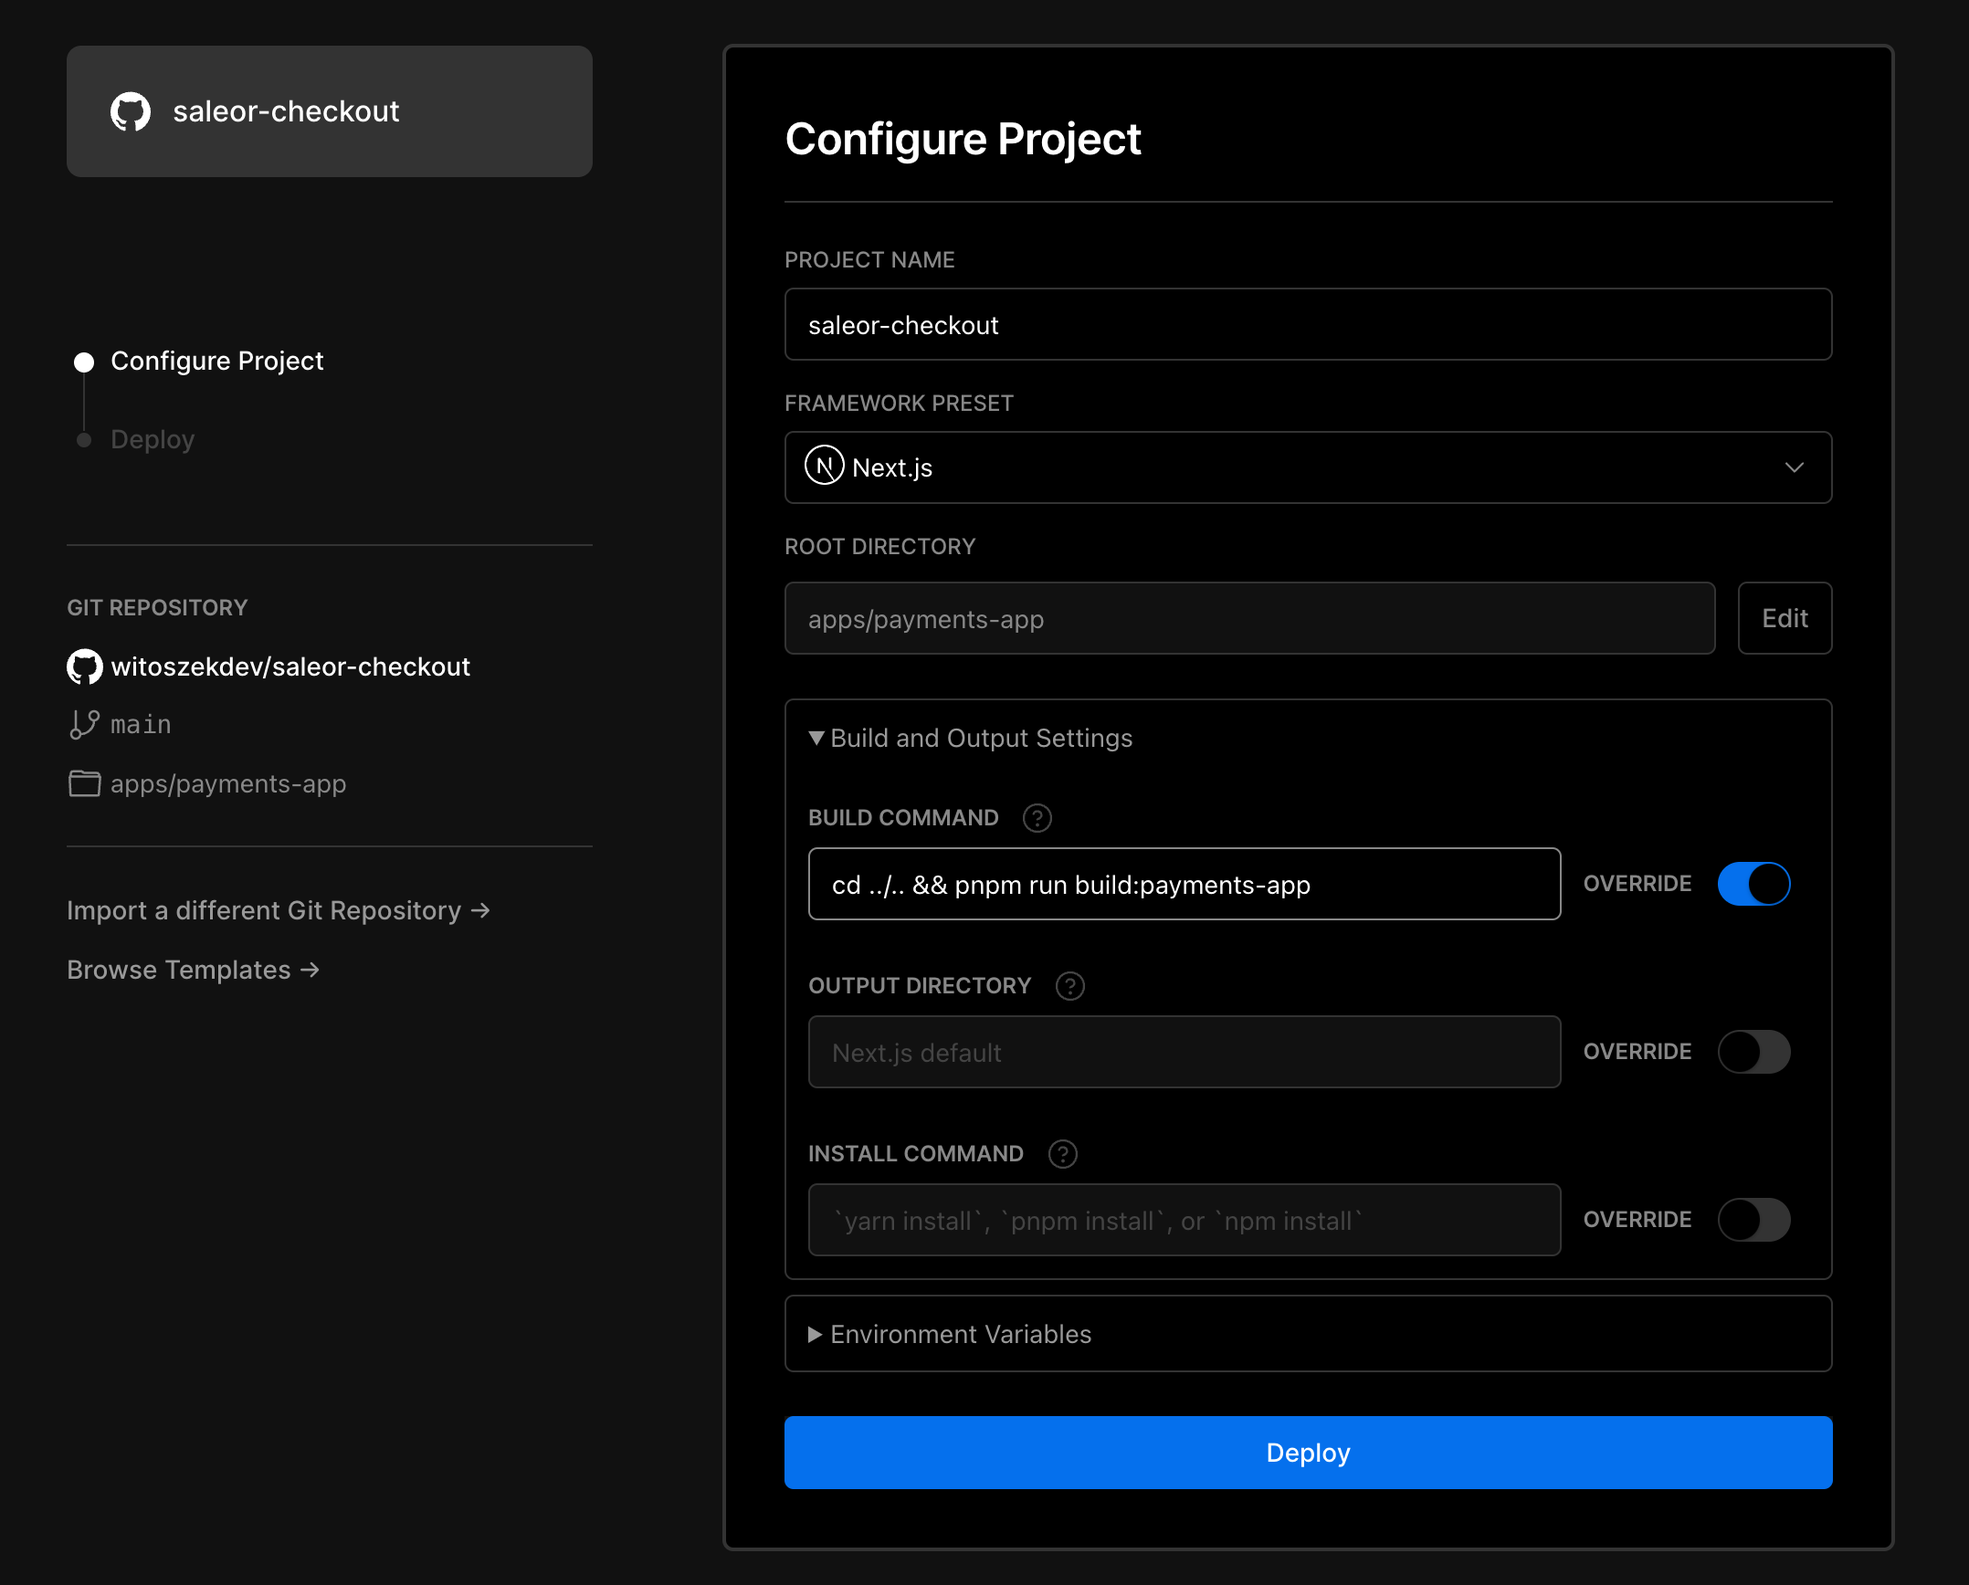
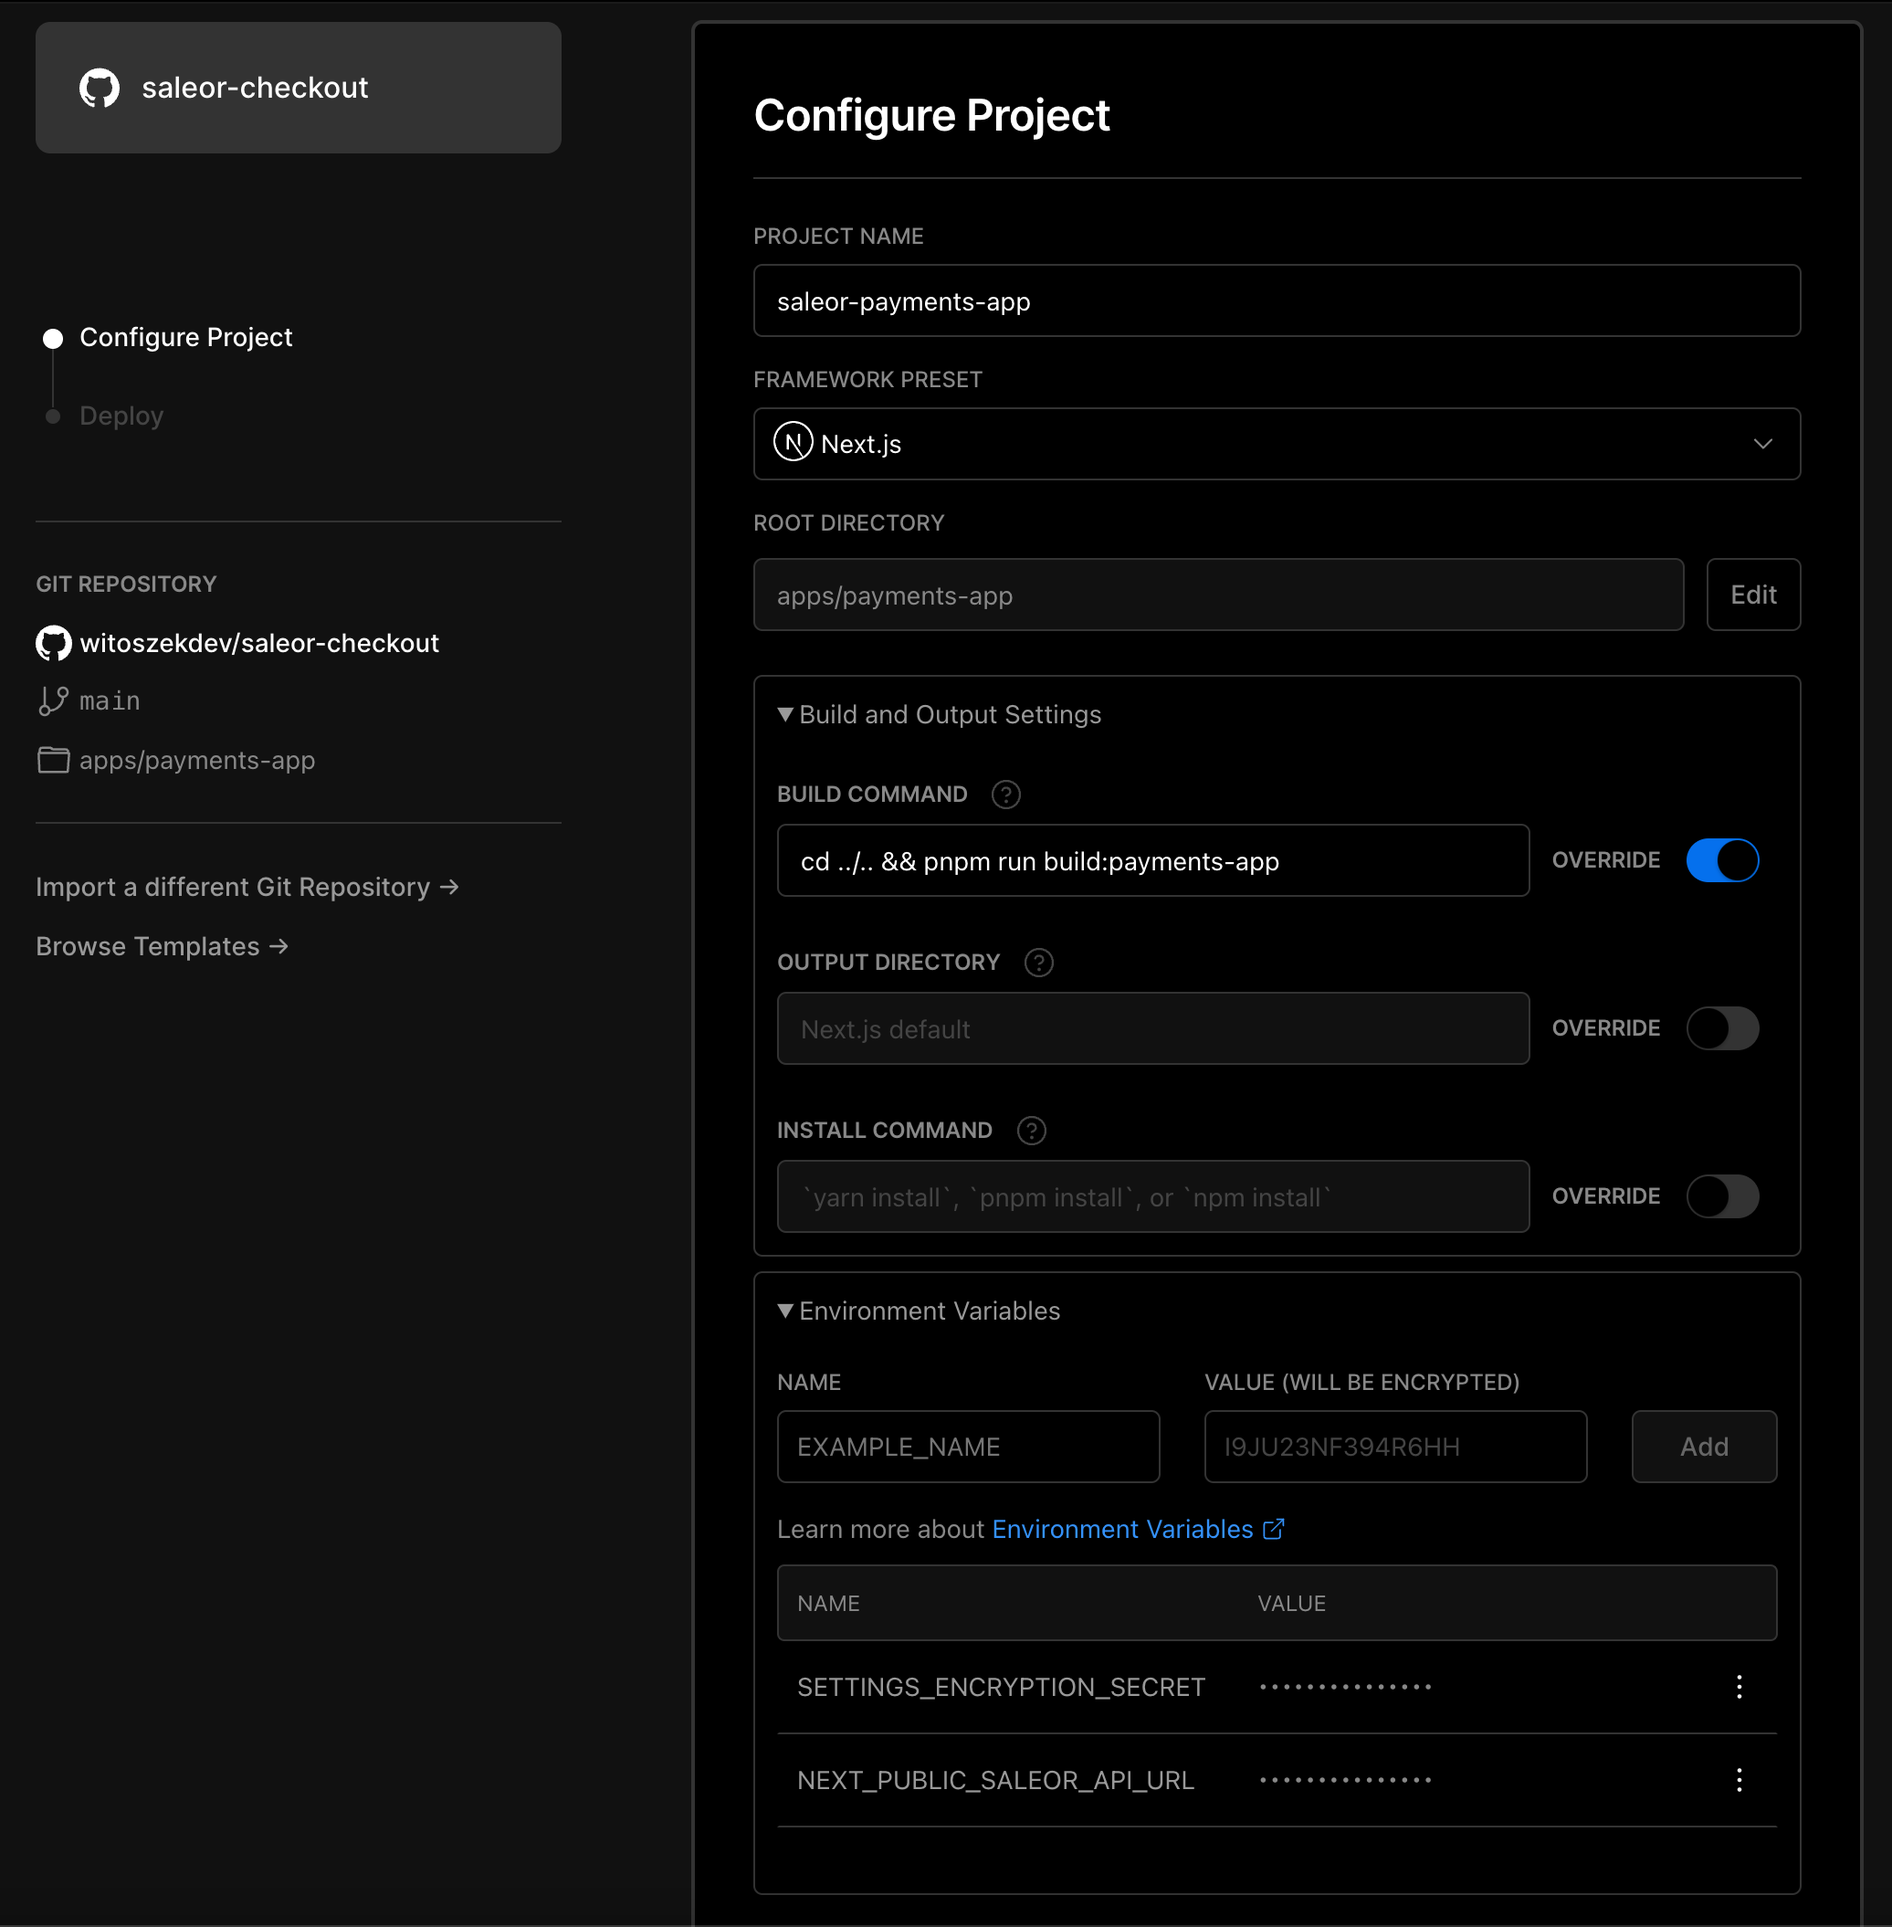
Change order of adding env variables, add additional screenshot of env variable conig

diff --git a/README.md b/README.md
@@ -92,11 +92,15 @@ pnpm dlx turbo link
   - Provide your project name (for example `saleor-payments-app`)
   - Select framework to Next.js
   - Choose the root directory to be `apps/payments-app`
-  - Change the build command to:
+  - Override the build command to:
 
 ```bash
 cd ../.. && pnpm run build:payments-app
 ```
+
+  - Add environment variables:
+    - `NEXT_PUBLIC_SALEOR_API_URL` - URL of your Saleor GraphQL API endpoint
+    - `SETTINGS_ENCRYPTION_SECRET` - Random string used for encrypting apps configuration (you can generate it using `openssl rand -hex 256`)
 
 Here's the final result on configuration page:
 
@@ -134,13 +138,13 @@ saleor app install
 
 After the app was installed generate it's `authToken`
 
-- Saleor CLI
+- [Saleor CLI](https://github.com/saleor/saleor-cli)
 
 ```
 saleor app token
 ```
 
-- Saleor GraphQL API
+- [Saleor GraphQL API](https://docs.saleor.io/docs/3.x/developer/api-reference/mutations/app-token-create)
 
 ```graphql
 mutation {
@@ -150,12 +154,50 @@ mutation {
 }
 ```
 
-Where `<MY_APP_ID>` is the app id. You can retrieve the id by using GraphQL query or by copying the URL inside dashboard
+Where `<MY_APP_ID>` is the app id. You can retrieve the id by using this GraphQL query:
+
+```graphql
+query {
+  apps(first: 10) {
+    edges {
+      node {
+        id
+        name
+      }
+    }
+  }
+}
+```
+
+outputs this:
+```jsonc
+{
+  "data": {
+    "apps": {
+      "edges": [
+        {
+          "node": {
+            "id": "QXBwOjQ=", // <- this is the app id
+            "name": "Checkout"
+          }
+        }
+      ]
+    }
+  },
+}
+```
 
 7. Update environment variables in Vercel
 
-You have to update the environment variables for Payments App in Vercel:
+You have to add additional environment variables for Payments App in Vercel:
 - `SALEOR_APP_ID` - ID of the app
-- `SALEOR_APP_TOKEN` - Token you've generated
+- `SALEOR_APP_TOKEN` - Token you've just generated
+
+Make sure that you also have "Automatically expose System Environment Variables" selected
+
+Here's how the configuration should look like in the end:
+![Vercel env variable final configuration](./docs/setup-vercel-3.png)
 
 After you're done re-deploy the app
+
+8. 🥳 Congrats! Payment app is now ready to be used!
